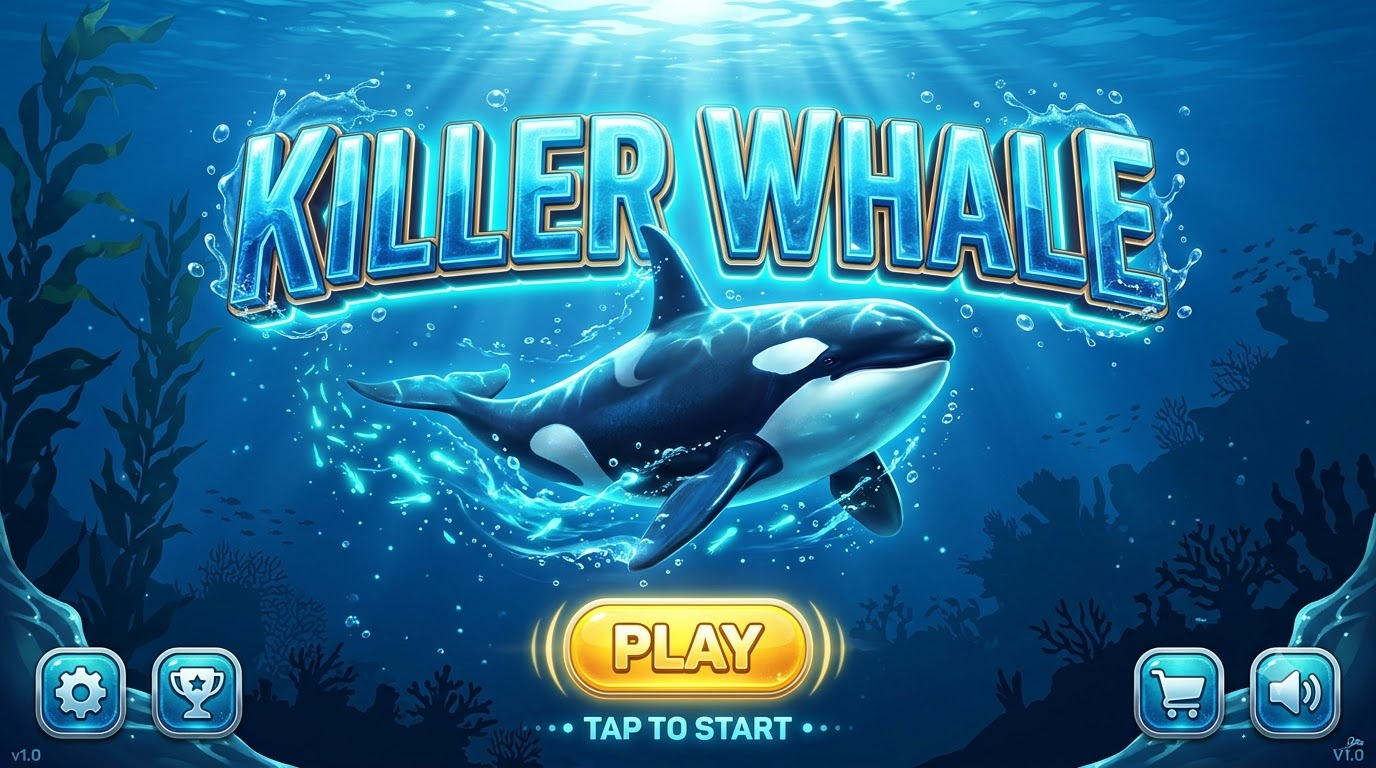
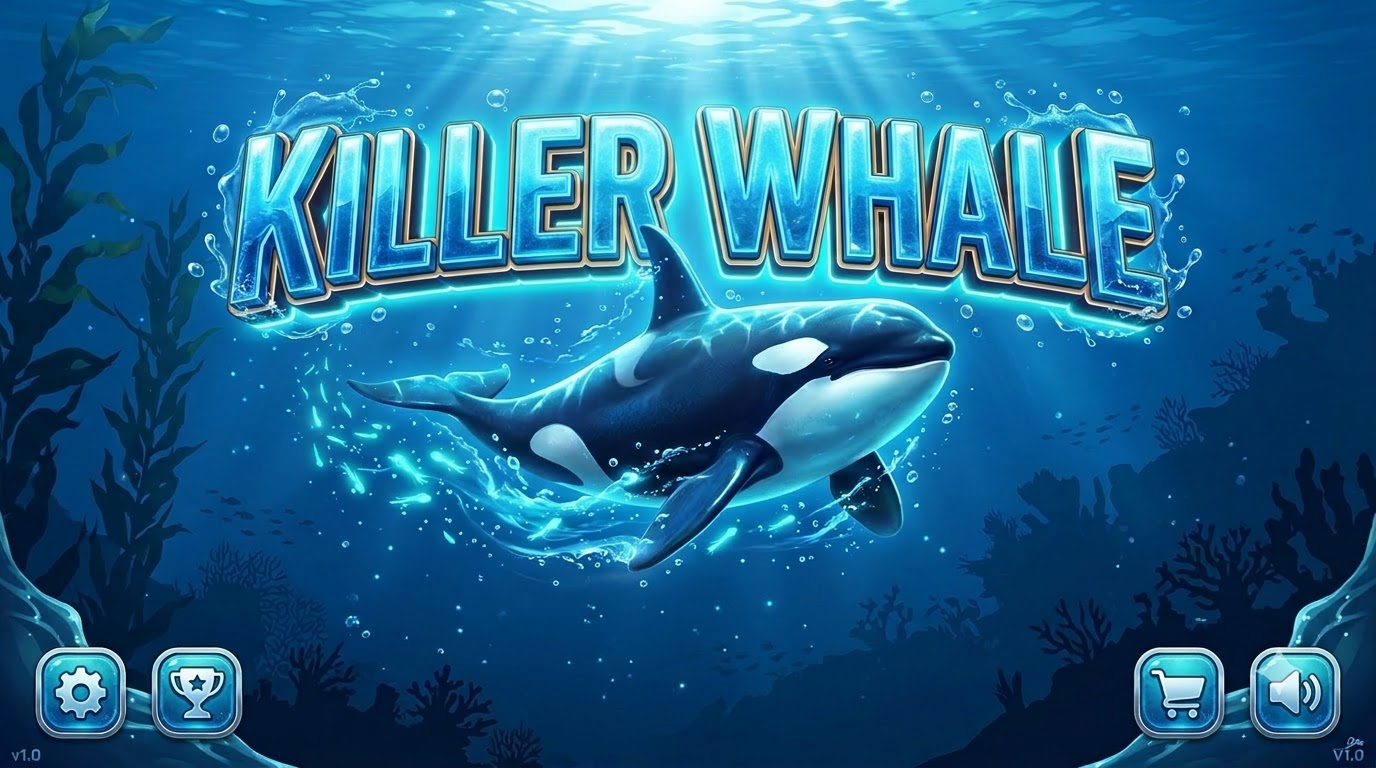
feat(art): apply updated title_bg without redundant play button and refresh cache

diff --git a/index.html b/index.html
@@ -7,7 +7,7 @@
     <!-- Favicon & Mobile App Icons -->
     <link rel="icon" type="image/png" href="Assets/icons/app_icon_mobile.png">
     <link rel="apple-touch-icon" href="Assets/icons/app_icon_mobile.png">
-    <link rel="stylesheet" href="style.css?v=20261026_portrait_bg_v6">
+    <link rel="stylesheet" href="style.css?v=20261026_title_bg_v7">
 </head>
 <body>
     <div id="game-container">
@@ -480,6 +480,6 @@
     <script src="i18n.js?v=20261026_i18n_v3"></script>
     <script src="firebase-config.js?v=20261021_fb"></script>
     <script src="auth.js?v=20261026_auth_v4"></script>
-    <script src="game.js?v=20261026_game_v5"></script>
+    <script src="game.js?v=20261026_game_v6"></script>
 </body>
 </html>

diff --git a/game.js b/game.js
@@ -607,7 +607,7 @@ class KillerWhaleGame {
     loadCustomAssets() {
         // 1. 배경 및 모달 텍스처
         const assetMap = {
-            title: "Assets/title/title_bg.png",
+            title: "Assets/title/title_bg.png?v=20261026_clean_title",
             settings: "Assets/settings/settings_modal_bg.png",
             results: "Assets/results/result_bg.png",
             results_portrait: "Assets/results/result_bg_portrait.png",

diff --git a/style.css b/style.css
@@ -94,6 +94,13 @@ body {
     pointer-events: none;
 }
 
+#title-bg-layer {
+    background-image: url('Assets/title/title_bg.png?v=20261026_clean_title');
+    background-size: cover;
+    background-position: center;
+    background-repeat: no-repeat;
+}
+
 canvas#gameCanvas {
     position: absolute;
     top: 0;
